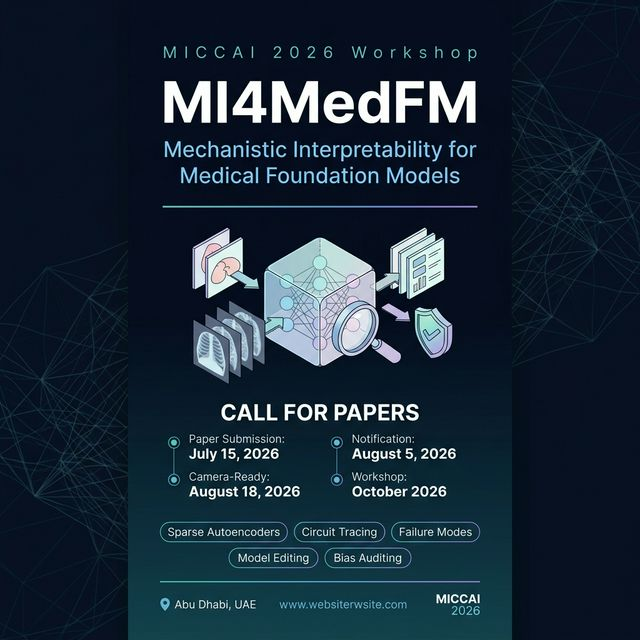
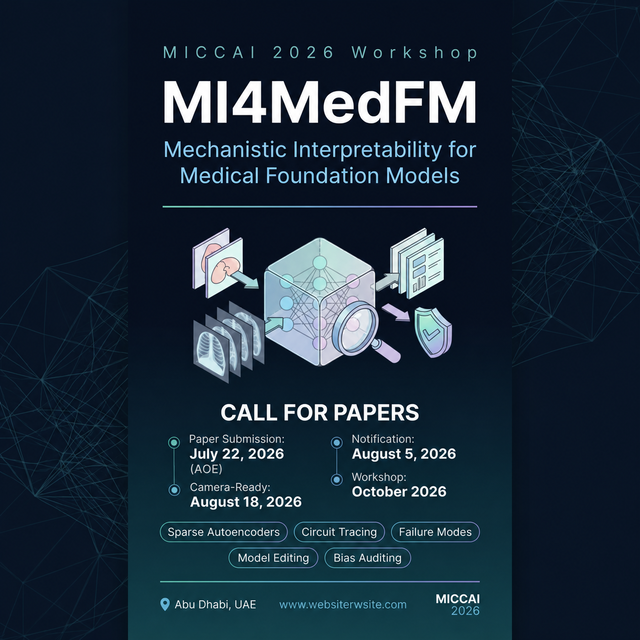
Extend paper submission deadline to July 22

diff --git a/index.html b/index.html
@@ -68,6 +68,13 @@
             robust, and more reliable for clinical deployment.
           </p>
 
+          <a class="deadline-notice" href="#submission">
+            <span class="deadline-notice-label">Deadline extended</span>
+            <span>Paper submissions are due <time datetime="2026-07-22">July 22, 2026</time>
+              (<abbr title="Anywhere on Earth">AoE</abbr>)</span>
+            <span class="deadline-notice-arrow" aria-hidden="true">&rarr;</span>
+          </a>
+
           <div class="hero-actions-centered">
             <a class="btn btn-primary"
               href="https://openreview.net/group?id=MICCAI.org/2026/Workshop/MI4MedFM&referrer=%5BHomepage%5D(%2F)#tab-your-consoles"
@@ -99,6 +106,17 @@
         </div>
         <div class="news-list reveal">
           <article class="news-item highlight-news">
+            <div class="news-date"><time datetime="2026-07-14">Jul 14, 2026</time></div>
+            <div class="news-content">
+              <strong>Paper Submission Deadline Extended!</strong>
+              <p>The paper submission deadline has been extended to <time datetime="2026-07-22">July 22, 2026</time>,
+                Anywhere on Earth (AoE). <a
+                  href="https://openreview.net/group?id=MICCAI.org/2026/Workshop/MI4MedFM&referrer=%5BHomepage%5D(%2F)#tab-your-consoles"
+                  target="_blank" rel="noopener noreferrer"
+                  style="color:var(--primary); text-decoration:underline;">Submit here</a>.</p>
+            </div>
+          </article>
+          <article class="news-item">
             <div class="news-date">Apr 19, 2026</div>
             <div class="news-content">
               <strong>Submissions are Open!</strong>
@@ -490,10 +508,10 @@
         <!-- Important Dates -->
         <div class="dates-timeline reveal">
           <h3 class="dates-title">Important Dates <span
-              style="font-weight:500;font-size:0.85rem;color:var(--muted);">(All deadlines are Anywhere on Earth —
-              AOE)</span></h3>
+              style="font-weight:500;font-size:0.85rem;color:var(--muted);">(All deadlines are Anywhere on Earth
+              (AoE))</span></h3>
           <div class="dates-grid">
-            <article class="date-card">
+            <article class="date-card deadline-card">
               <div class="date-icon">
                 <svg width="24" height="24" viewBox="0 0 24 24" fill="none" stroke="currentColor" stroke-width="2">
                   <path d="M14 2H6a2 2 0 00-2 2v16a2 2 0 002 2h12a2 2 0 002-2V8z" />
@@ -504,8 +522,8 @@
                 </svg>
               </div>
               <div>
-                <strong>Paper Submission Deadline</strong>
-                <p>July 15, 2026</p>
+                <strong>Paper Submission Deadline <span class="deadline-badge">Extended</span></strong>
+                <p><time datetime="2026-07-22">July 22, 2026</time> <span class="deadline-zone">(AoE)</span></p>
               </div>
             </article>
             <article class="date-card">

diff --git a/styles.css b/styles.css
@@ -282,6 +282,11 @@ ul {
   box-shadow: 0 12px 30px rgba(15, 23, 42, 0.08);
 }
 
+.news-item.highlight-news:first-child {
+  background: linear-gradient(135deg, rgba(65, 94, 243, 0.08), rgba(14, 165, 233, 0.06));
+  border-color: rgba(65, 94, 243, 0.2);
+}
+
 .news-date {
   font-weight: 700;
   color: var(--primary);
@@ -469,6 +474,59 @@ ul {
   font-size: 1.15rem;
   max-width: 78ch;
   line-height: 1.6;
+}
+
+.deadline-notice {
+  display: inline-flex;
+  align-items: center;
+  justify-content: center;
+  flex-wrap: wrap;
+  gap: 0.55rem;
+  margin-top: 1.4rem;
+  padding: 0.6rem 0.85rem 0.6rem 0.65rem;
+  border: 1px solid rgba(65, 94, 243, 0.18);
+  border-radius: 999px;
+  background: rgba(255, 255, 255, 0.86);
+  box-shadow: 0 10px 28px rgba(65, 94, 243, 0.1);
+  color: var(--muted-strong);
+  font-size: 0.92rem;
+  font-weight: 650;
+  transition: transform 180ms ease, border-color 180ms ease, box-shadow 180ms ease;
+}
+
+.deadline-notice:hover {
+  transform: translateY(-2px);
+  border-color: rgba(65, 94, 243, 0.34);
+  box-shadow: 0 14px 34px rgba(65, 94, 243, 0.16);
+}
+
+.deadline-notice:focus-visible {
+  outline: 3px solid var(--primary-deep);
+  outline-offset: 3px;
+}
+
+.deadline-notice-label,
+.deadline-badge {
+  display: inline-flex;
+  align-items: center;
+  border-radius: 999px;
+  background: var(--primary-deep);
+  color: #fff;
+  font-size: 0.7rem;
+  font-weight: 800;
+  letter-spacing: 0.05em;
+  line-height: 1;
+  text-transform: uppercase;
+}
+
+.deadline-notice-label {
+  padding: 0.48rem 0.65rem;
+}
+
+.deadline-notice-arrow {
+  color: var(--primary);
+  font-size: 1.1rem;
+  line-height: 1;
 }
 
 .hero-actions-centered {
@@ -1498,6 +1556,11 @@ ul {
   border-color: rgba(65, 94, 243, 0.15);
 }
 
+.date-card.deadline-card {
+  background: linear-gradient(135deg, rgba(65, 94, 243, 0.08), rgba(14, 165, 233, 0.07));
+  border-color: rgba(65, 94, 243, 0.24);
+}
+
 .date-icon {
   flex-shrink: 0;
   width: 44px;
@@ -1515,11 +1578,23 @@ ul {
   margin-bottom: 0.2rem;
 }
 
+.deadline-badge {
+  margin-left: 0.3rem;
+  padding: 0.28rem 0.42rem;
+  vertical-align: 0.1rem;
+}
+
 .date-card p {
   margin: 0;
   color: var(--primary);
   font-weight: 700;
   font-size: 0.88rem;
+}
+
+.deadline-zone {
+  color: var(--muted);
+  font-size: 0.76rem;
+  font-weight: 650;
 }
 
 /* Submission Tracks */
